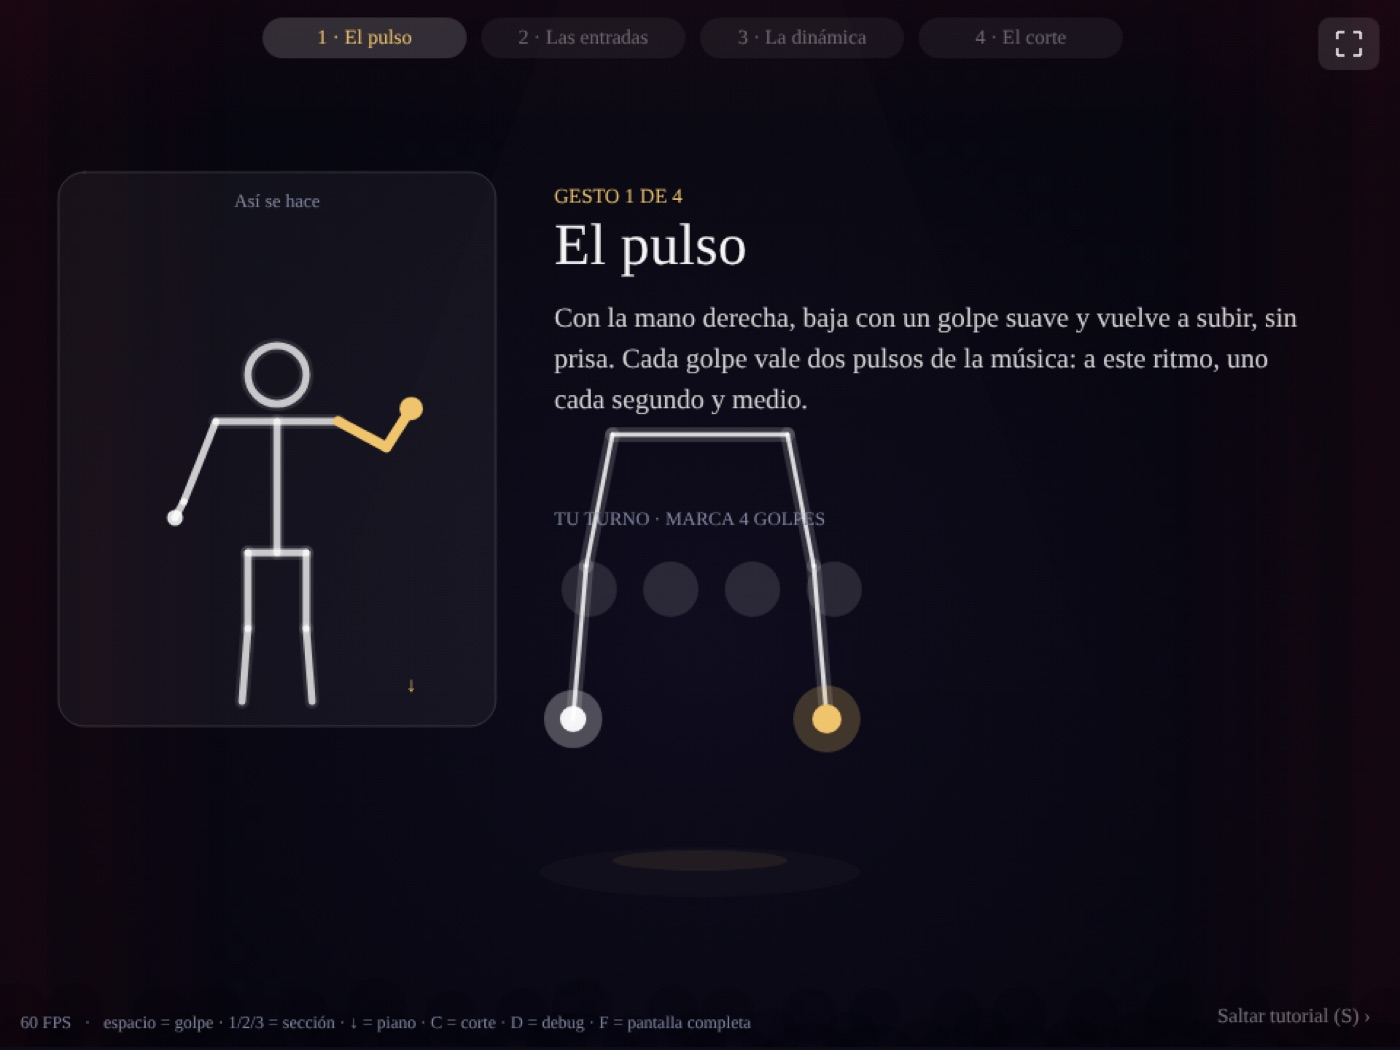
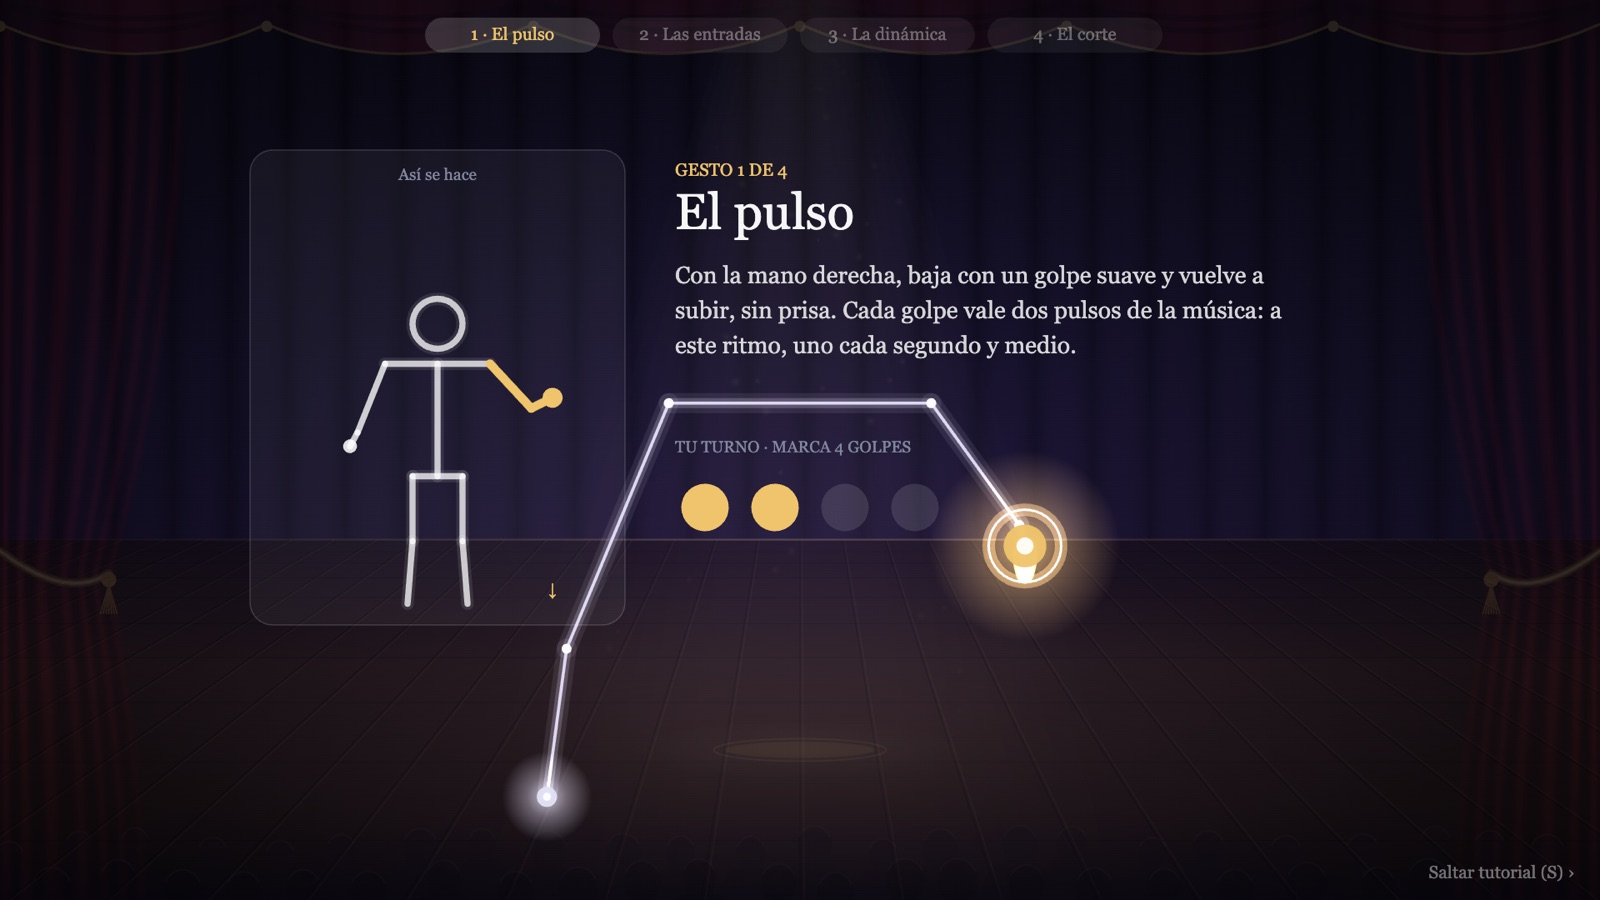
Orquesta Corporal: nuevas capturas, video, sitio en vivo y repositorio
- Portada nueva (gran final) y galería con 12 capturas de la experiencia más los
  diagramas de diseño
- Video en YouTube (PO6iQugyyH8)
- La experiencia enlaza a GitHub Pages (reemplaza el editor de p5.js) y se agrega
  el repositorio
- AGENTS.md/CLAUDE.md actualizados

diff --git a/src/data/projects.ts b/src/data/projects.ts
@@ -794,8 +794,8 @@ export const projects: Project[] = [
     color: "#C2563A",
     tint: "#F8E6DF",
     textColor: "#7E3220",
-    cover: "images/projects/orquesta/cover.png",
-    coverAlt: { es: "Pantalla de dirección de Orquesta Corporal", en: "Conducting screen of Orquesta Corporal" },
+    cover: "images/projects/orquesta/cover.jpg",
+    coverAlt: { es: "Gran final de Orquesta Corporal: el esqueleto del director frente a las tres secciones de la orquesta iluminadas", en: "Orquesta Corporal grand finale: the conductor's skeleton in front of the three lit orchestra sections" },
     role: { es: "Diseño de interacción · Diseño sonoro · Prototipado con visión artificial (apoyo de IA)", en: "Interaction design · Sound design · Computer-vision prototyping (AI-assisted)" },
     duration: { es: "Octubre 2026 · Proyecto final de Visión Artificial", en: "October 2026 · Computer Vision final project" },
     tools: "p5.js · ml5.js (BodyPose / MoveNet) · Tone.js",
@@ -851,16 +851,29 @@ export const projects: Project[] = [
       { value: { es: "148", en: "148" }, label: { es: "pulsos de partitura a 80 BPM", en: "beats of score at 80 BPM" } },
     ],
     gallery: [
-      { src: "images/projects/orquesta/historia.jpg", alt: { es: "Historia de apertura en el teatro", en: "Opening story at the theater" } },
-      { src: "images/projects/orquesta/tutorial-pulso.jpg", alt: { es: "Tutorial del gesto de pulso", en: "Pulse gesture tutorial" } },
+      { src: "images/projects/orquesta/portada.jpg", alt: { es: "Pantalla de inicio: «Dirige el Himno a la alegría con tu cuerpo»", en: "Start screen: “Conduct Ode to Joy with your body”" } },
+      { src: "images/projects/orquesta/introduccion.jpg", alt: { es: "Historia de apertura: «Esta noche, el director eres tú»", en: "Opening story: “Tonight, you are the conductor”" } },
+      { src: "images/projects/orquesta/calibracion.jpg", alt: { es: "Calibración: verificación de cámara, hombros y posición frente a la pantalla", en: "Calibration: camera, shoulders and position checks" } },
+      { src: "images/projects/orquesta/tutorial-pulso.jpg", alt: { es: "Tutorial del gesto 1: el pulso con la mano derecha", en: "Tutorial, gesture 1: the pulse with the right hand" } },
+      { src: "images/projects/orquesta/tutorial-entradas.jpg", alt: { es: "Tutorial del gesto 2: las entradas de cada sección con la mano izquierda", en: "Tutorial, gesture 2: cueing each section with the left hand" } },
+      { src: "images/projects/orquesta/tutorial-dinamica.jpg", alt: { es: "Tutorial del gesto 3: la dinámica, controlada con todo el cuerpo", en: "Tutorial, gesture 3: dynamics controlled with the whole body" } },
+      { src: "images/projects/orquesta/tutorial-corte.jpg", alt: { es: "Tutorial del gesto 4: el corte cruzando los brazos", en: "Tutorial, gesture 4: the cut-off with crossed arms" } },
+      { src: "images/projects/orquesta/direccion-cuerdas.jpg", alt: { es: "Dirección: entrada de las cuerdas agudas", en: "Conducting: cueing the high strings" } },
+      { src: "images/projects/orquesta/direccion-maderas.jpg", alt: { es: "Dirección: entrada de las maderas", en: "Conducting: cueing the woodwinds" } },
+      { src: "images/projects/orquesta/direccion-chelos.jpg", alt: { es: "Dirección: entrada de los chelos", en: "Conducting: cueing the cellos" } },
       { src: "images/projects/orquesta/gran-final.jpg", alt: { es: "Gran final con la orquesta completa", en: "Grand finale with the full orchestra" } },
+      { src: "images/projects/orquesta/fin.jpg", alt: { es: "Cierre: «Fin de la obra»", en: "Ending: “End of the piece”" } },
       { src: "images/projects/orquesta/c-cuatro-gestos.png", alt: { es: "Los cuatro gestos: pulso, entradas, dinámica y corte", en: "The four gestures: pulse, cues, dynamics and cut-off" } },
       { src: "images/projects/orquesta/b-orquesta-real.png", alt: { es: "De la orquesta real a la distribución en pantalla", en: "From the real orchestra to the on-screen layout" } },
       { src: "images/projects/orquesta/j-arquitectura.png", alt: { es: "Arquitectura del sistema", en: "System architecture" } },
     ],
+    videos: [
+      { title: { es: "Orquesta Corporal en funcionamiento", en: "Orquesta Corporal in action" }, youtube: "PO6iQugyyH8" },
+    ],
     links: [
-      { label: { es: "Probar la experiencia en el navegador (requiere cámara)", en: "Try it in the browser (camera required)" }, url: "https://editor.p5js.org/Valengp2006/full/GMBJ7kILg" },
+      { label: { es: "Probar la experiencia en el navegador (requiere cámara)", en: "Try it in the browser (camera required)" }, url: "https://valengp2006.github.io/orquesta-corporal/" },
       { label: { es: "Documentación completa en Notion", en: "Full documentation on Notion" }, url: "https://app.notion.com/p/Orquesta-Corporal-401bd8838a788043a17ec992ffc8473c" },
+      { label: { es: "Repositorio en GitHub", en: "GitHub repository" }, url: "https://github.com/Valengp2006/orquesta-corporal" },
     ],
     stack: ["p5.js", "ml5.js", "MoveNet", "Tone.js"],
     outcome: {

diff --git a/AGENTS.md b/AGENTS.md
@@ -42,6 +42,8 @@ Cada vez que un agente cambie contenido, estructura, textos o tome una decisión
 
 ## Decisiones tomadas
 
+- **Orquesta Corporal (27-nov-2026):** la experiencia en vivo es https://valengp2006.github.io/orquesta-corporal/ (reemplaza el enlace del editor de p5.js), con repo https://github.com/Valengp2006/orquesta-corporal, documentación en Notion y video en YouTube (PO6iQugyyH8). Portada: gran final (`orquesta/cover.jpg`); galería de 12 capturas de la experiencia en orden + 3 diagramas de diseño. Las capturas originales (1920×1080 PNG) vienen de `fotos-orquesta-corporal.zip` y se guardan como JPG a 1600 px.
+
 - **MUSE como trabajo en equipo (CV, nov 2026):** los textos dicen que Valentina participó en la investigación UX y en el diseño de wireframes, flujos, UI kit y prototipo, con el trabajo repartido entre el equipo; sus aportes destacados son el flujo de eventos, «Artista de la Semana», el UI Kit y la navegación. La identidad gráfica se atribuye al equipo ("Con el equipo construimos…"). Evitar frases que presenten MUSE como trabajo individual.
 
 - **MUSE, cifras reales de investigación:** bloque "Investigación en números" (27 respuestas de encuesta · 5 entrevistas · 5 pruebas de usabilidad), justo después de "Investigación UX" y antes de "Reflexión" y "Decisiones clave"; el resultado final dice "validado en 5 pruebas de usabilidad". Las cifras van solo ahí; el texto "encuestas, entrevistas y pruebas con usuarios" de la sección de investigación se deja sin cifras. Hay un tipo de bloque `metrics` en `VisualBlocks` (mismo estilo que `metrics` de los demás proyectos).
@@ -81,7 +83,7 @@ Cada vez que un agente cambie contenido, estructura, textos o tome una decisión
 - **Dissonance** tiene su video "Recorrido completo (versión acelerada)" en YouTube (5wiIbKju99w).
 - **Jardín de Bruma** es un proyecto solo conceptual: no tiene videos ni prototipo funcional y no se prevé agregarlos.
 - **Cosmos** corrige su stack: público desde el teléfono (Node.js + Socket.io), performer en iPad (Open Stage Control), Strudel y TouchDesigner.
-- **Enlaces a repositorios** (`links` con "Repositorio en GitHub"): Dissonance, Contemplar lo infinito, Cauce (why-bother), Encantar, Cosmos (Proyecto_Cosmos) y Pasos de Tradición. Orquesta Corporal (no tiene repo: solo el enlace directo del p5.js Web Editor y su Notion), MUSE y Jardín de Bruma no tienen repo enlazado.
+- **Enlaces a repositorios** (`links` con "Repositorio en GitHub"): Dissonance, Contemplar lo infinito, Cauce (why-bother), Encantar, Cosmos (Proyecto_Cosmos) y Pasos de Tradición. MUSE y Jardín de Bruma no tienen repo enlazado.
 - **Repo de Hechizos → `encantar`:** el enlace del sitio ya apunta a `Valengp2006/encantar`. Ya está renombrado (nov 2026) y su sitio vive en valengp2006.github.io/encantar/. La carpeta local y su remoto siguen con el nombre viejo.
 - **Videos:** cada proyecto puede tener `videos` en `projects.ts`: `youtube` (ID; se carga solo al hacer clic, vía youtube-nocookie) o `src` (MP4 en `public/videos/`, con `poster`). Todos los videos actuales están en YouTube: Cosmos, Pasos de Tradición (4: Making of, Códice, Rastro de los Gestos y Cúpula de Legados), Cauce (mbFWkJXmFDI), Contemplar lo infinito (ki0KPbzuUF4) y Encantar (CHbMVxdAO8U). No se guardan videos pesados en el repo (límite de GitHub y peso en el historial); `public/videos/` quedó sin uso.
 - **Cauce:** su portada y galería salen de fotogramas de su grabación (los de la captura en vivo se descartaron por oscuros). Contemplar sumó dos fotogramas del ensayo.

diff --git a/CLAUDE.md b/CLAUDE.md
@@ -42,6 +42,8 @@ Cada vez que un agente cambie contenido, estructura, textos o tome una decisión
 
 ## Decisiones tomadas
 
+- **Orquesta Corporal (27-nov-2026):** la experiencia en vivo es https://valengp2006.github.io/orquesta-corporal/ (reemplaza el enlace del editor de p5.js), con repo https://github.com/Valengp2006/orquesta-corporal, documentación en Notion y video en YouTube (PO6iQugyyH8). Portada: gran final (`orquesta/cover.jpg`); galería de 12 capturas de la experiencia en orden + 3 diagramas de diseño. Las capturas originales (1920×1080 PNG) vienen de `fotos-orquesta-corporal.zip` y se guardan como JPG a 1600 px.
+
 - **MUSE como trabajo en equipo (CV, nov 2026):** los textos dicen que Valentina participó en la investigación UX y en el diseño de wireframes, flujos, UI kit y prototipo, con el trabajo repartido entre el equipo; sus aportes destacados son el flujo de eventos, «Artista de la Semana», el UI Kit y la navegación. La identidad gráfica se atribuye al equipo ("Con el equipo construimos…"). Evitar frases que presenten MUSE como trabajo individual.
 
 - **MUSE, cifras reales de investigación:** bloque "Investigación en números" (27 respuestas de encuesta · 5 entrevistas · 5 pruebas de usabilidad), justo después de "Investigación UX" y antes de "Reflexión" y "Decisiones clave"; el resultado final dice "validado en 5 pruebas de usabilidad". Las cifras van solo ahí; el texto "encuestas, entrevistas y pruebas con usuarios" de la sección de investigación se deja sin cifras. Hay un tipo de bloque `metrics` en `VisualBlocks` (mismo estilo que `metrics` de los demás proyectos).
@@ -81,7 +83,7 @@ Cada vez que un agente cambie contenido, estructura, textos o tome una decisión
 - **Dissonance** tiene su video "Recorrido completo (versión acelerada)" en YouTube (5wiIbKju99w).
 - **Jardín de Bruma** es un proyecto solo conceptual: no tiene videos ni prototipo funcional y no se prevé agregarlos.
 - **Cosmos** corrige su stack: público desde el teléfono (Node.js + Socket.io), performer en iPad (Open Stage Control), Strudel y TouchDesigner.
-- **Enlaces a repositorios** (`links` con "Repositorio en GitHub"): Dissonance, Contemplar lo infinito, Cauce (why-bother), Encantar, Cosmos (Proyecto_Cosmos) y Pasos de Tradición. Orquesta Corporal (no tiene repo: solo el enlace directo del p5.js Web Editor y su Notion), MUSE y Jardín de Bruma no tienen repo enlazado.
+- **Enlaces a repositorios** (`links` con "Repositorio en GitHub"): Dissonance, Contemplar lo infinito, Cauce (why-bother), Encantar, Cosmos (Proyecto_Cosmos) y Pasos de Tradición. MUSE y Jardín de Bruma no tienen repo enlazado.
 - **Repo de Hechizos → `encantar`:** el enlace del sitio ya apunta a `Valengp2006/encantar`. Ya está renombrado (nov 2026) y su sitio vive en valengp2006.github.io/encantar/. La carpeta local y su remoto siguen con el nombre viejo.
 - **Videos:** cada proyecto puede tener `videos` en `projects.ts`: `youtube` (ID; se carga solo al hacer clic, vía youtube-nocookie) o `src` (MP4 en `public/videos/`, con `poster`). Todos los videos actuales están en YouTube: Cosmos, Pasos de Tradición (4: Making of, Códice, Rastro de los Gestos y Cúpula de Legados), Cauce (mbFWkJXmFDI), Contemplar lo infinito (ki0KPbzuUF4) y Encantar (CHbMVxdAO8U). No se guardan videos pesados en el repo (límite de GitHub y peso en el historial); `public/videos/` quedó sin uso.
 - **Cauce:** su portada y galería salen de fotogramas de su grabación (los de la captura en vivo se descartaron por oscuros). Contemplar sumó dos fotogramas del ensayo.
